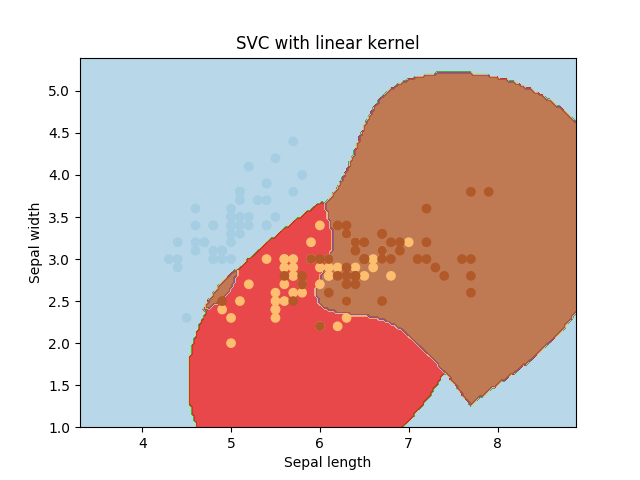
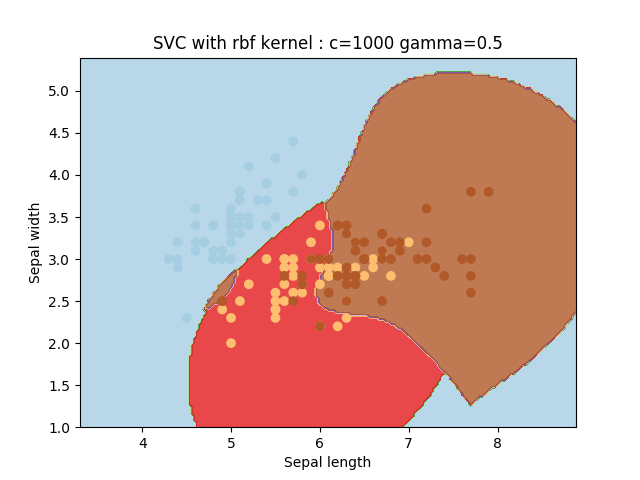
Changing titles

Changed region(s): [[0.2188, 0.0625, 0.7812, 0.125]]

diff --git a/svm-implementation.py b/svm-implementation.py
@@ -7,12 +7,12 @@ X = iris.data[:, :2]
 y = iris.target
 
 c = 1.0 # SVM regularization parameter
-svc = svm.SVC(kernel='linear', C=1, gamma=0.5).fit(X,y)
+#svc = svm.SVC(kernel='linear', C=1, gamma=0.5).fit(X,y)
 #svc = svm.SVC(kernel='rbf', C=1, gamma=0.5).fit(X,y)
 #svc = svm.SVC(kernel='rbf', C=1, gamma=10).fit(X, y)
 #svc = svm.SVC(kernel='rbf', C=1, gamma=100).fit(X, y)
 #svc = svm.SVC(kernel='rbf', C=100, gamma=0.5).fit(X, y)
-#svc = svm.SVC(kernel='rbf', C=1000, gamma=0.5).fit(X, y)
+svc = svm.SVC(kernel='rbf', C=1000, gamma=0.5).fit(X, y)
 
 x_min, x_max = X[:, 0].min() - 1, X[:, 0].max() + 1
 y_min, y_max = X[:, 1].min() - 1, X[:, 1].max() + 1
@@ -29,5 +29,10 @@ plt.scatter(X[:, 0], X[:, 1], c=y, cmap=plt.cm.Paired)
 plt.xlabel('Sepal length')
 plt.ylabel('Sepal width')
 plt.xlim(xx.min(), xx.max())
-plt.title('SVC with linear kernel')
+#plt.title('SVC with linear kernel : c=1 gamma=0.5')
+#plt.title('SVC with rbf kernel : c=1 gamma=0.5')
+#plt.title('SVC with rbf kernel : c=1 gamma=10')
+#plt.title('SVC with rbf kernel : c=1 gamma=100')
+#plt.title('SVC with rbf kernel : c=100 gamma=0.5')
+plt.title('SVC with rbf kernel : c=1000 gamma=0.5')
 plt.show()
